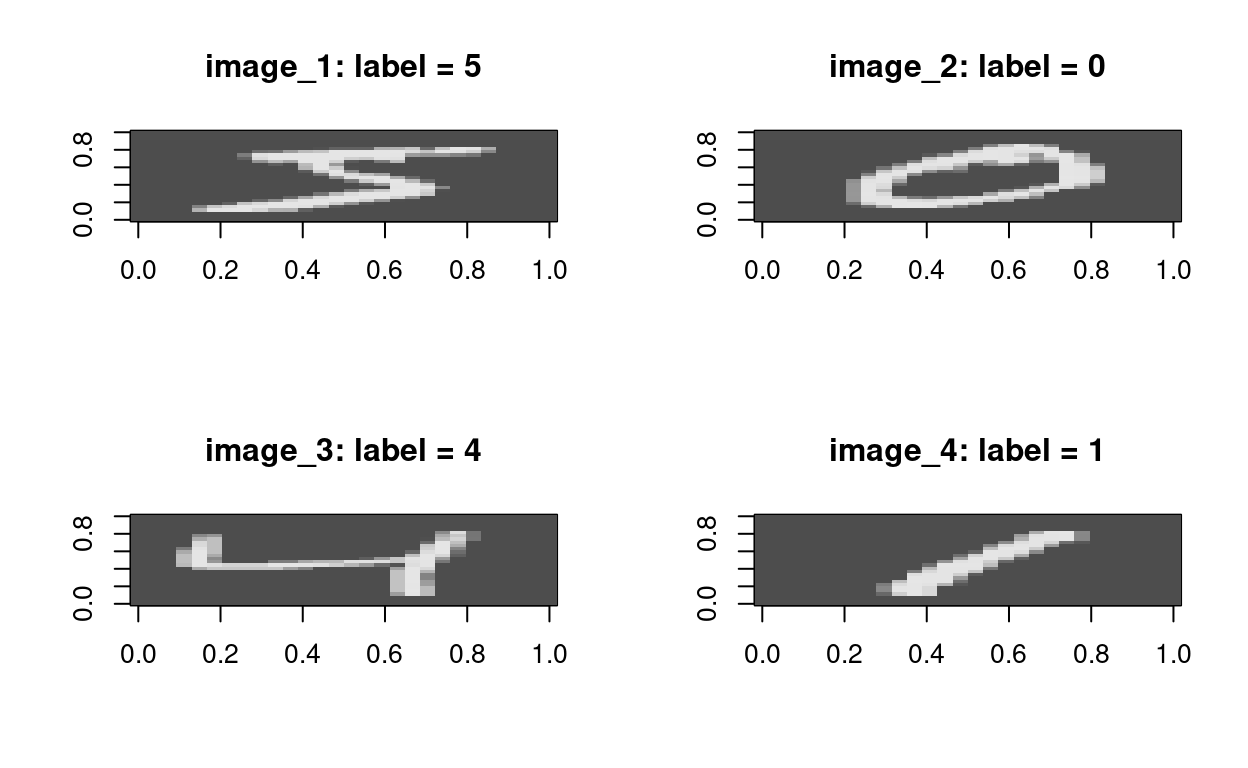
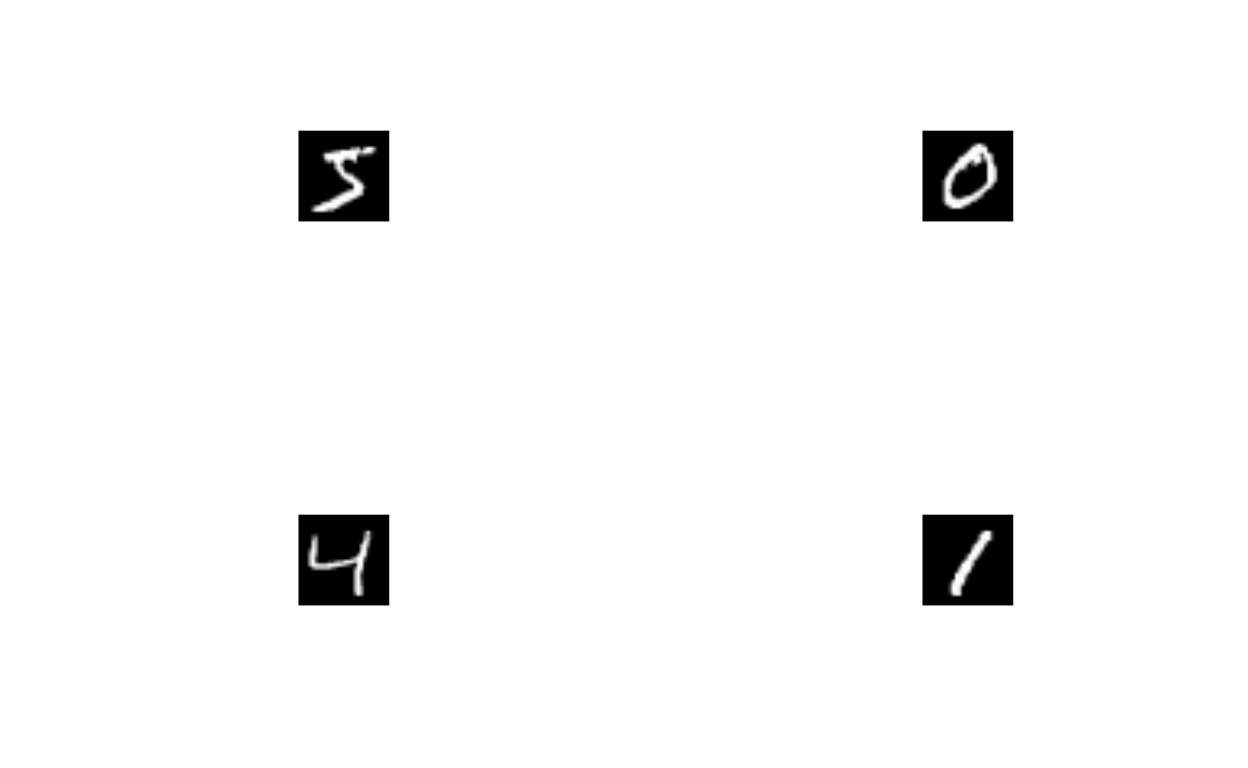
fixed ipynb links to working notebooks on taylor

diff --git a/docs/lab4a_dl-neural-nets.html b/docs/lab4a_dl-neural-nets.html
@@ -103,11 +103,10 @@ code span.wa { color: #5e5e5e; font-style: italic; } /* Warning */
   <meta property="twitter:title" content="EDS 232: Lab 4a. Deep Learning - Neural Networks"/>
 
   <!--/radix_placeholder_meta_tags-->
-  
   <!--radix_placeholder_rmarkdown_metadata-->
 
   <script type="text/json" id="radix-rmarkdown-metadata">
-  {"type":"list","attributes":{"names":{"type":"character","attributes":{},"value":["title","output","bibliography","css","editor_options"]}},"value":[{"type":"character","attributes":{},"value":["Lab 4a. Deep Learning - Neural Networks"]},{"type":"character","attributes":{},"value":["html_document"]},{"type":"character","attributes":{},"value":["ml-env.bib"]},{"type":"character","attributes":{},"value":["files/prioritizr-style.css"]},{"type":"list","attributes":{"names":{"type":"character","attributes":{},"value":["chunk_output_type"]}},"value":[{"type":"character","attributes":{},"value":["console"]}]}]}
+  {"type":"list","attributes":{"names":{"type":"character","attributes":{},"value":["title","editor_options"]}},"value":[{"type":"character","attributes":{},"value":["Lab 4a. Deep Learning - Neural Networks"]},{"type":"list","attributes":{"names":{"type":"character","attributes":{},"value":["chunk_output_type"]}},"value":[{"type":"character","attributes":{},"value":["console"]}]}]}
   </script>
   <!--/radix_placeholder_rmarkdown_metadata-->
   <!--radix_placeholder_navigation_in_header-->
@@ -2460,7 +2459,6 @@ code span.wa { color: #5e5e5e; font-style: italic; } /* Warning */
   <!--radix_placeholder_site_in_header-->
   <!--/radix_placeholder_site_in_header-->
 
-  <link rel="stylesheet" href="files/prioritizr-style.css" type="text/css"/>
 
 </head>
 
@@ -2493,9 +2491,12 @@ Labs
 <a href="lab1d_sdm-evaluate.html">1d. Species: evaluate</a>
 <a href="lab2a_community-cluster.html">2a. Community: cluster</a>
 <a href="lab2b_community-ordination.html">2b. Community: ordination</a>
-<a href="lab3_reserves.html">3. Conservation Planning</a>
+<a href="lab3_reserves.html">3. Reserve Design: prioritize</a>
 <a href="review_midterm.html">Mid-Term Review</a>
-<a href="lab4a_dl-neural-nets.html">4. Deep Learning: neural networks</a>
+<a href="lab4a_dl-neural-nets.html">4a. Deep Learning: neural networks</a>
+<a href="lab4b_examples.html">4b. Deep Learning: keras</a>
+<a href="lab4c_inat.html">4c. Deep Learning: iNaturalist</a>
+<a href="gp_kaggle.html">Group Project: Kaggle Competition</a>
 </div>
 </div>
 <a href="glossary.html">Glosssary</a>
@@ -2632,7 +2633,7 @@ Loaded Tensorflow version 2.7.1</code></pre>
 </div>
 <pre><code> int [1:10000(1d)] 7 2 1 0 4 1 4 9 5 9 ...</code></pre>
 </div>
-<p><em>Let’s look at the first 4 training images and their labels.</em></p>
+<p>The workflow will be as follows: first we’ll feed the neural network the training data, <code>train_images</code> and <code>train_labels</code>. The network will then learn to associate images and labels. Finally, we’ll ask the network to produce predictions for <code>test_images</code>, and we’ll verify whether these predictions match the labels from <code>test_labels</code>.</p>
 <div class="layout-chunk" data-layout="l-body">
 <div class="sourceCode">
 <pre class="sourceCode r"><code class="sourceCode r"><span class='fu'>librarian</span><span class='fu'>::</span><span class='fu'><a href='https://rdrr.io/pkg/librarian/man/shelf.html'>shelf</a></span><span class='op'>(</span><span class='va'>glue</span><span class='op'>)</span>
@@ -2649,10 +2650,9 @@ Loaded Tensorflow version 2.7.1</code></pre>
 <div class="sourceCode">
 <pre class="sourceCode r"><code class="sourceCode r"><span class='fu'><a href='https://rdrr.io/r/graphics/par.html'>par</a></span><span class='op'>(</span>mfrow<span class='op'>=</span><span class='fu'><a href='https://rdrr.io/r/base/c.html'>c</a></span><span class='op'>(</span><span class='fl'>2</span>,<span class='fl'>2</span><span class='op'>)</span><span class='op'>)</span>
 <span class='fu'><a href='https://rdrr.io/r/base/lapply.html'>sapply</a></span><span class='op'>(</span>
-  <span class='fl'>1</span><span class='op'>:</span><span class='fl'>4</span>, <span class='kw'>function</span><span class='op'>(</span><span class='va'>i</span><span class='op'>)</span><span class='op'>{</span>
-    <span class='fu'><a href='https://rdrr.io/r/graphics/image.html'>image</a></span><span class='op'>(</span>
-      <span class='fu'><a href='https://rdrr.io/r/base/t.html'>t</a></span><span class='op'>(</span><span class='fu'><a href='https://rdrr.io/r/base/apply.html'>apply</a></span><span class='op'>(</span><span class='va'>train_images</span><span class='op'>[</span><span class='va'>i</span>,,<span class='op'>]</span>, <span class='fl'>2</span>, <span class='va'>rev</span><span class='op'>)</span><span class='op'>)</span>,
-      col  <span class='op'>=</span> <span class='fu'><a href='https://rdrr.io/r/grDevices/gray.colors.html'>gray.colors</a></span><span class='op'>(</span><span class='fl'>256</span><span class='op'>)</span>, 
+  <span class='fl'>1</span><span class='op'>:</span><span class='fl'>4</span>, <span class='kw'>function</span><span class='op'>(</span><span class='va'>i</span><span class='op'>)</span><span class='op'>{</span> <span class='co'># i = 5</span>
+    <span class='fu'><a href='https://rdrr.io/r/graphics/plot.default.html'>plot</a></span><span class='op'>(</span>
+      <span class='fu'><a href='https://rdrr.io/r/grDevices/as.raster.html'>as.raster</a></span><span class='op'>(</span><span class='va'>train_images</span><span class='op'>[</span><span class='va'>i</span>,,<span class='op'>]</span><span class='op'>/</span><span class='fl'>255</span><span class='op'>)</span>,
       main <span class='op'>=</span> <span class='fu'>glue</span><span class='op'>(</span><span class='st'>"image_{i}: label = {train_labels[i]}"</span><span class='op'>)</span><span class='op'>)</span> <span class='op'>}</span><span class='op'>)</span>
 </code></pre>
 </div>
@@ -2669,7 +2669,6 @@ NULL
 [[4]]
 NULL</code></pre>
 </div>
-<p>The workflow will be as follows: first we’ll feed the neural network the training data, <code>train_images</code> and <code>train_labels</code>. The network will then learn to associate images and labels. Finally, we’ll ask the network to produce predictions for <code>test_images</code>, and we’ll verify whether these predictions match the labels from <code>test_labels</code>.</p>
 <p>Let’s build the network – again, remember that you aren’t supposed to understand everything about this example yet.</p>
 <h3 data-number="2.1.3" id="listing-2.2-the-network-architecture"><span class="header-section-number">2.1.3</span> Listing 2.2 The network architecture</h3>
 <div class="layout-chunk" data-layout="l-body">
@@ -2711,6 +2710,7 @@ NULL</code></pre>
 </code></pre>
 </div>
 </div>
+<p><em>Let’s look at the first 4 training images and their labels.</em></p>
 <p>We also need to categorically encode the labels, a step which we explain in chapter 3:</p>
 <h3 data-number="2.1.6" id="listing-2.5-preparing-the-labels"><span class="header-section-number">2.1.6</span> Listing 2.5 Preparing the labels</h3>
 <div class="layout-chunk" data-layout="l-body">
@@ -2739,13 +2739,13 @@ NULL</code></pre>
 </code></pre>
 </div>
 <pre><code>      loss   accuracy 
-0.08055136 0.97539997 </code></pre>
+0.07303085 0.97920001 </code></pre>
 </div>
-<p>Our test set accuracy turns out to be 98.1% – that’s quite a bit lower than the training set accuracy. This gap between training accuracy and test accuracy is an example of “overfitting,” the fact that machine learning models tend to perform worse on new data than on their training data. Overfitting will be a central topic in chapter 3.</p>
+<p>Our test set accuracy turns out to be 98.1% – that’s quite a bit lower than the training set accuracy. This gap between training accuracy and test accuracy is an example of “overfitting”, the fact that machine learning models tend to perform worse on new data than on their training data. Overfitting will be a central topic in chapter 3.</p>
 <p>This concludes our first example – you just saw how you can build and a train a neural network to classify handwritten digits in less than 20 lines of R code. In the next chapter, we’ll go into detail about every moving piece we just previewed and clarify what’s going on behind the scenes. You’ll learn about tensors, the data-storing objects going into the network; about tensor operations, which layers are made of; and about gradient descent, which allows your network to learn from its training examples.</p>
 <h2 data-number="2.2" id="python"><span class="header-section-number">2.2</span> Python</h2>
-<p>Visit <a href="https://github.com/fchollet/deep-learning-with-python-notebooks/tree/8a30b90fed187aaddaaf1fc868ec8e0ac92bca40">fchollet/deep-learning-with-python-notebooks at 8a30b90</a>, which is the author’s repository of Python notebooks at the 2017 commit before switching to the second edition in 2021.</p>
-<p>You can then download the first notebook, i.e. <a href="https://github.com/fchollet/deep-learning-with-python-notebooks/raw/8a30b90fed187aaddaaf1fc868ec8e0ac92bca40/">2.1-a-first-look-at-a-neural-network.ipynb</a> by right-clicking to Save link as… locally, or perhaps if navigating from the Github folder similarly right-clicking on Raw to Save link as…</p>
+<p>I forked <a href="https://github.com/fchollet/deep-learning-with-python-notebooks">fchollet/deep-learning-with-python-notebooks</a> into <a href="https://github.com/bbest/deep-learning-with-python-notebooks">bbest/deep-learning-with-python-notebooks</a> and updated the <a href="https://github.com/bbest/deep-learning-with-python-notebooks/tree/master/first_edition">first_edition</a> folder with all the minor tweaks to work with the current versions of <code>keras</code> and <code>tensorflow</code>. Note that these were run from <code>taylor.bren.ucsb.edu</code> which does not have a GPU so error messages about missing GPU/NVIDIA/CUDA software appear, but still run through the CPU.</p>
+<p>You can then download the first notebook, i.e. <a href="https://github.com/bbest/deep-learning-with-python-notebooks/raw/master/first_edition/2.1-a-first-look-at-a-neural-network.ipynb">2.1-a-first-look-at-a-neural-network.ipynb</a> by right-clicking to Save link as… locally, or perhaps if navigating from the Github folder similarly right-clicking on Raw to Save link as…</p>
 <p>Then you can start a new JupyterLab Session and Python 3 (ipykernel) Notebook and upload the notebook file (<code>*.ipynb</code>) you previously downloaded.</p>
 <div class="sourceCode" id="cb10"><pre class="sourceCode r distill-force-highlighting-css"><code class="sourceCode r"></code></pre></div>
 <!--radix_placeholder_article_footer-->
@@ -2759,10 +2759,7 @@ NULL</code></pre>
 <!--radix_placeholder_site_after_body-->
 <!--/radix_placeholder_site_after_body-->
 <!--radix_placeholder_appendices-->
-<div class="appendix-bottom">
-<h3 id="references">References</h3>
-<div id="references-listing"></div>
-</div>
+<div class="appendix-bottom"></div>
 <!--/radix_placeholder_appendices-->
 <!--radix_placeholder_navigation_after_body-->
 <div class="distill-site-nav distill-site-footer">
